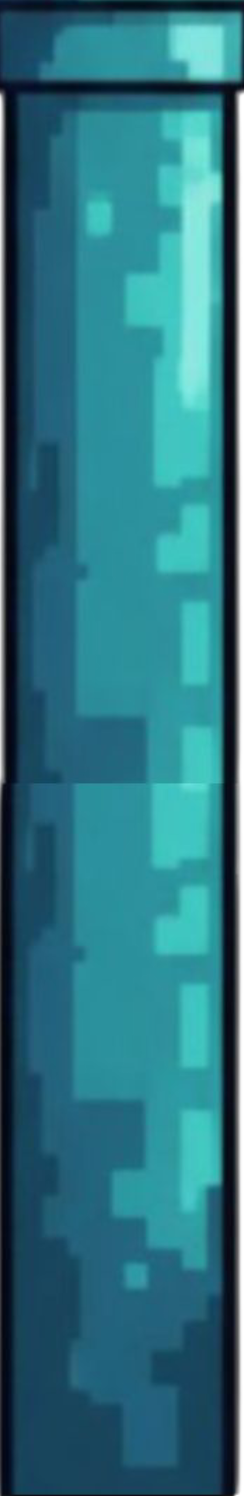
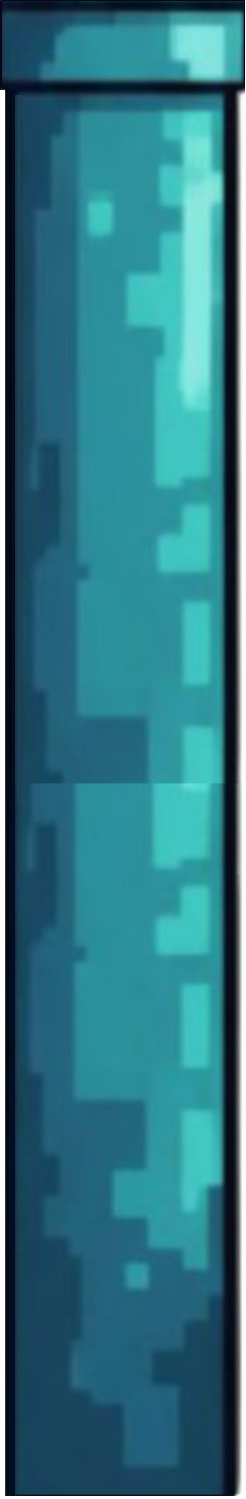
Fixed pipe, powerup Image
Pipe1: Purple pipe now looks more clear
Powerup: Added clear powerup img
(Added powerup code too)

diff --git a/main.py b/main.py
@@ -146,6 +146,11 @@ def mainGame():
     current_background = 'Background1' if game_mode == 'enemy' else 'Background'
     current_base = 'Base1' if game_mode == 'enemy' else 'Base'
     
+    # Powerup variables
+    powerups = []  # List to store powerup positions
+    last_powerup_score = 0  # Track when we last spawned a powerup
+    should_spawn_powerup = False  # Flag to track if we should spawn a powerup
+    
     # Start background music for enemy mode
     if game_mode == 'enemy':
         Game_Sound['Background1'].play(-1)  # -1 means loop indefinitely
